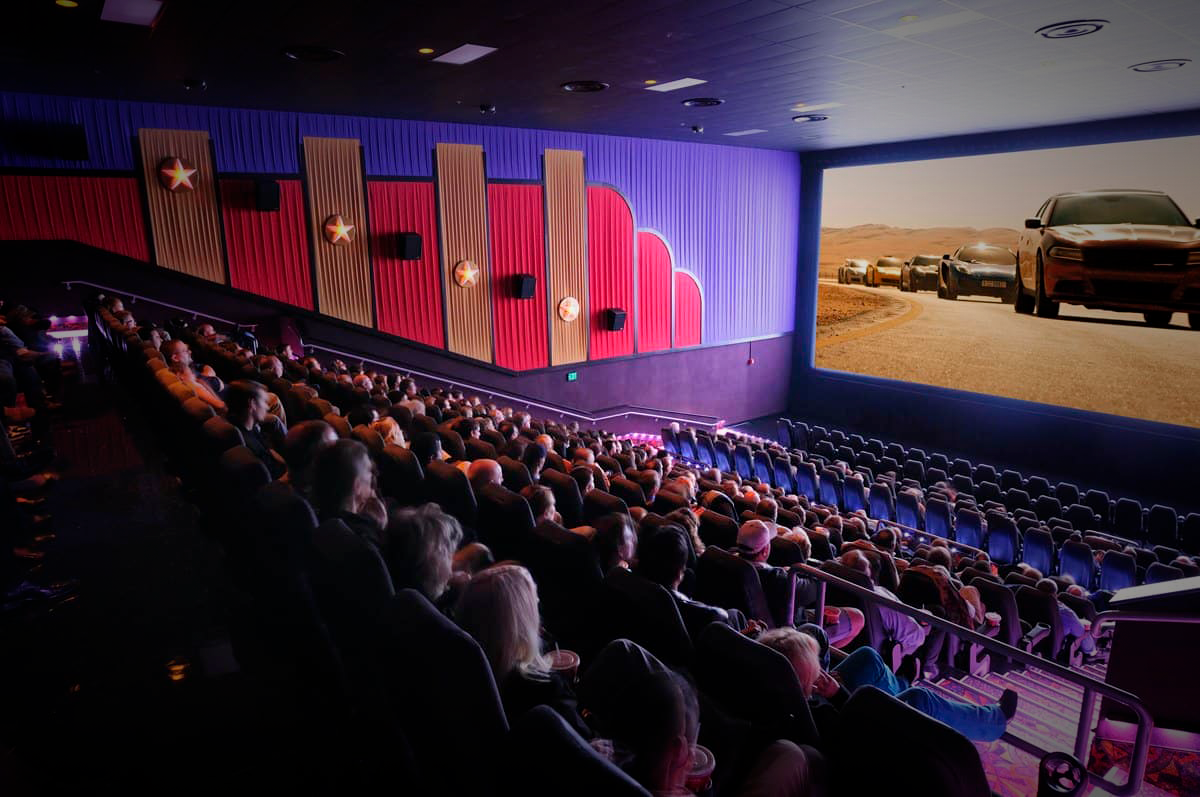
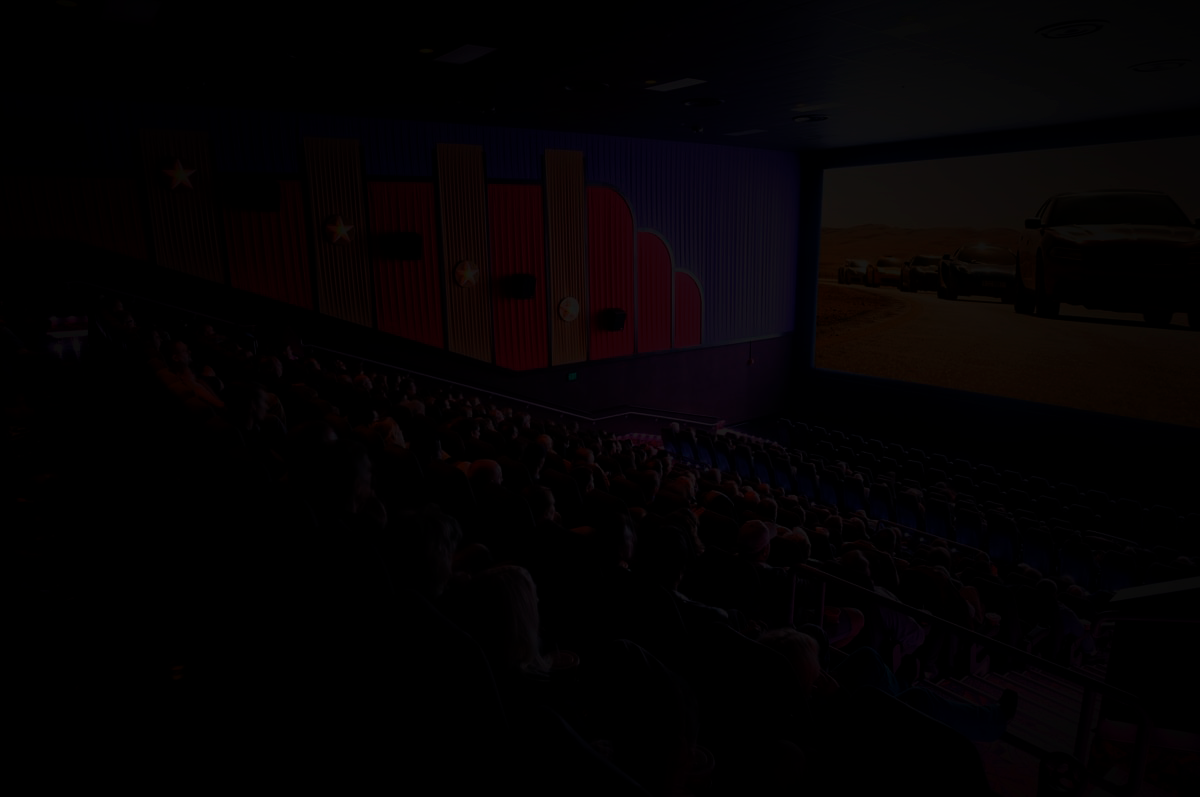
new styles

diff --git a/src/index.css b/src/index.css
@@ -1,8 +1,8 @@
-/* body {
+body {
   font-family: -apple-system, BlinkMacSystemFont, "Segoe UI", "Roboto", "Oxygen",
     "Ubuntu", "Cantarell", "Fira Sans", "Droid Sans", "Helvetica Neue",
     sans-serif;
-  background: url("../src/img/background.png") no-repeat center center fixed;
+  background: url("../src/img/back.png") no-repeat center center fixed;
   background-size: cover;
   width: 100%;
   height: 100%;
@@ -12,38 +12,32 @@
   -webkit-font-smoothing: antialiased;
   -moz-osx-font-smoothing: grayscale;
   color: #ffffff;
-} */
+  margin: 0;
+  padding: 0;
+}
 
-body {
+/* body {
   font-family: -apple-system, BlinkMacSystemFont, "Segoe UI", "Roboto", "Oxygen",
     "Ubuntu", "Cantarell", "Fira Sans", "Droid Sans", "Helvetica Neue",
     sans-serif;
-  position: fixed;
-  height: 100vh;
-  width: 100%;
   -webkit-font-smoothing: antialiased;
   -moz-osx-font-smoothing: grayscale;
   color: #ffffff;
   background-color: rgb(0, 0, 0);
+  margin: 0;
+  padding: 0;
 }
-
 body::before {
   content: "";
   background: url("../src/img/back.png") no-repeat center center fixed;
   background-size: cover;
-  opacity: 0.1;
   top: 0;
   left: 0;
   bottom: 0;
   right: 0;
   position: absolute;
   z-index: -1;
-}
+} */
 
-#root {
-  margin-left: -2.5rem;
-  margin-right: -1.7rem;
-  margin-top: -3rem;
-}
 @media only screen and (max-width: 450px) {
 }

diff --git a/src/components/Movies/Movies.module.css b/src/components/Movies/Movies.module.css
@@ -6,16 +6,15 @@ a {
   -webkit-tap-highlight-color: rgba(0, 0, 0, 0);
 }
 .container {
-  border-radius: 15px;
-  padding: 20px 20px 5px 20px;
-  backdrop-filter: blur(10px);
-  -webkit-backdrop-filter: blur(10px);
-  background: rgba(49, 49, 49, 0.596);
+  background: rgb(6 13 23);
 }
 
 .div_suggestion {
   display: flex;
+  font-family: "Fredoka One", cursive;
   margin-left: 1.1rem;
+  opacity: 0.7;
+  margin-bottom: 0.8rem;
 }
 .div_suggestion span {
   font-size: 25px;
@@ -23,8 +22,9 @@ a {
 .div_hot_top {
   display: flex;
   margin-bottom: 0.5rem;
-  width: 80vw;
+  width: 100%;
   justify-content: flex-start;
+  background-color: rgb(10, 21, 31);
 }
 .ul_hot_top {
   display: flex;
@@ -36,12 +36,13 @@ a {
 .ul_hot_top li button {
   background-color: transparent;
   border: none;
-  color: rgb(255, 255, 255);
+  color: rgb(220 199 199);
   padding: 7px;
   font-size: 17px;
   border-radius: 10px;
   width: 150px;
   cursor: pointer;
+  font-family: "Poppins", sans-serif;
 }
 .ul_hot_top li button:hover {
   background-color: rgb(231, 26, 26);
@@ -57,10 +58,7 @@ a {
   display: flex;
   flex-wrap: wrap;
   justify-content: center;
-  border: 1px solid rgba(98, 98, 98, 0.616);
   padding-top: 1.5rem;
-  background-color: rgb(100, 100, 100);
-  border-radius: 5px;
 }
 
 @media only screen and (max-width: 415px) {

diff --git a/src/components/Movies/Movies.jsx b/src/components/Movies/Movies.jsx
@@ -4,15 +4,18 @@ import Movie from "../Movie/Movie";
 import { getMovies } from "../../actions";
 import { connect } from "react-redux";
 import { NavLink } from "react-router-dom";
+import background from "../../img/back.png";
 
 function Movies(props) {
   useEffect(() => {
-    document.body.style["-webkit-backdrop-filter"] = "blur(10px)";
-    document.body.style["backdrop-filter"] = "blur(10px)";
+    /*    document.querySelector(".NavBar_header__2ZPPt").style.background =
+      "#3f3f3f"; */
 
+    document.body.style.background = "rgb(6 13 23)";
+    /* document.body.style.background =
+      "url('https://image.tmdb.org/t/p/w500/eeijXm3553xvuFbkPFkDG6CLCbQ.jpg') no-repeat center center /cover fixed";  */
     return () => {
-      document.body.style.removeProperty("backdrop-filter");
-      document.body.style.removeProperty("-webkit-backdrop-filter");
+      document.body.style.background = `url(${background}) no-repeat center center /cover fixed`;
     };
   }, []);
 
@@ -20,7 +23,7 @@ function Movies(props) {
     <React.Fragment>
       <div className={styles.container}>
         <div className={styles.div_suggestion}>
-          <span>Suggestion</span>
+          <span>Sort By</span>
         </div>
         <div className={styles.div_hot_top}>
           <ul className={styles.ul_hot_top}>

diff --git a/src/components/MovieInfo/MovieInfo.jsx b/src/components/MovieInfo/MovieInfo.jsx
@@ -1,20 +1,19 @@
 import React, { useEffect } from "react";
 import styles from "./MovieInfo.module.css";
 import { connect } from "react-redux";
-import background from "../../img/background.png";
 
 function MovieInfo(props) {
-  useEffect(() => {
-    /*    document.querySelector(".NavBar_header__2ZPPt").style.background =
-      "#3f3f3f"; */
+  /*   useEffect(() => {
+   document.querySelector(".NavBar_header__2ZPPt").style.background =
+      "#3f3f3f"; 
     document.body.style.width = "auto";
     document.body.style.background = "black";
-    /* document.body.style.background =
-      "url('https://image.tmdb.org/t/p/w500/eeijXm3553xvuFbkPFkDG6CLCbQ.jpg') no-repeat center center /cover fixed";  */
+   document.body.style.background =
+      "url('https://image.tmdb.org/t/p/w500/eeijXm3553xvuFbkPFkDG6CLCbQ.jpg') no-repeat center center /cover fixed";  
     return () => {
       document.body.style.background = `url(${background}) no-repeat center center fixed`;
     };
-  }, []);
+  }, []); */
   return (
     <React.Fragment>
       <div className={styles.movieInfo_fullscreen}>

diff --git a/public/index.html b/public/index.html
@@ -26,10 +26,8 @@
     <meta prefix="og: http://ogp.me/ns#" property="og:type" content="Website" />
     <link rel="preconnect" href="https://fonts.googleapis.com" />
     <link rel="preconnect" href="https://fonts.gstatic.com" crossorigin />
-    <link rel="preconnect" href="https://fonts.googleapis.com" />
-    <link rel="preconnect" href="https://fonts.gstatic.com" crossorigin />
     <link
-      href="https://fonts.googleapis.com/css2?family=Zen+Kaku+Gothic+Antique:wght@700&display=swap"
+      href="https://fonts.googleapis.com/css2?family=Fredoka+One&family=Poppins&family=Zen+Kaku+Gothic+Antique:wght@700&display=swap"
       rel="stylesheet"
     />
     <title>Watch All</title>

diff --git a/src/components/SearchBar/SearchBar.module.css b/src/components/SearchBar/SearchBar.module.css
@@ -6,26 +6,28 @@ form {
 .divContainer {
   display: flex;
   justify-content: space-around;
-  background: #999999;
+  background: #9999996e;
   color: #ffffff;
-  border-radius: 20px;
-  width: 17rem;
+  border-radius: 10px;
+  width: 18.7rem;
 }
 .input_search {
   background: transparent;
   border: none;
   outline: none;
   color: #ffffff;
-  width: 12rem;
+  width: 13.9rem;
   padding: 15px;
+  opacity: 0.6;
 }
 .input_search:focus {
   outline: none;
 }
 .input_search::placeholder {
   color: #ffffff;
-  font-size: 11px;
+  font-size: 14px;
   text-align: start;
+  font-style: italic;
 }
 .input_search:focus::placeholder {
   color: transparent;

diff --git a/src/components/NavBar/NavBar.module.css b/src/components/NavBar/NavBar.module.css
@@ -3,9 +3,10 @@
   justify-content: space-between;
   font-family: "Zen Kaku Gothic Antique", sans-serif;
   margin-bottom: 1;
-  background-color: rgb(43 43 43 / 63%);
+  background-color: rgb(21 21 21 / 28%);
   width: 100%;
-  height: 5.2rem;
+  height: 4.9rem;
+  margin-bottom: 5rem;
 }
 
 /* rgb(129,133,136) */
@@ -40,7 +41,7 @@
   display: flex;
   justify-content: center;
   align-items: end;
-  width: 20rem;
+  width: 25rem;
   margin-bottom: 0.6rem;
 }
 

diff --git a/src/App.css b/src/App.css
@@ -1,10 +1,9 @@
 .App {
   display: flex;
   flex-direction: column;
-  margin: 2rem 2rem 2rem 2rem;
 }
-@media only screen and (max-width: 450px) {
+/* @media only screen and (max-width: 450px) {
   .App {
     margin: 0.5rem 0.5rem 0.5rem 0.5rem;
   }
-}
+} */
